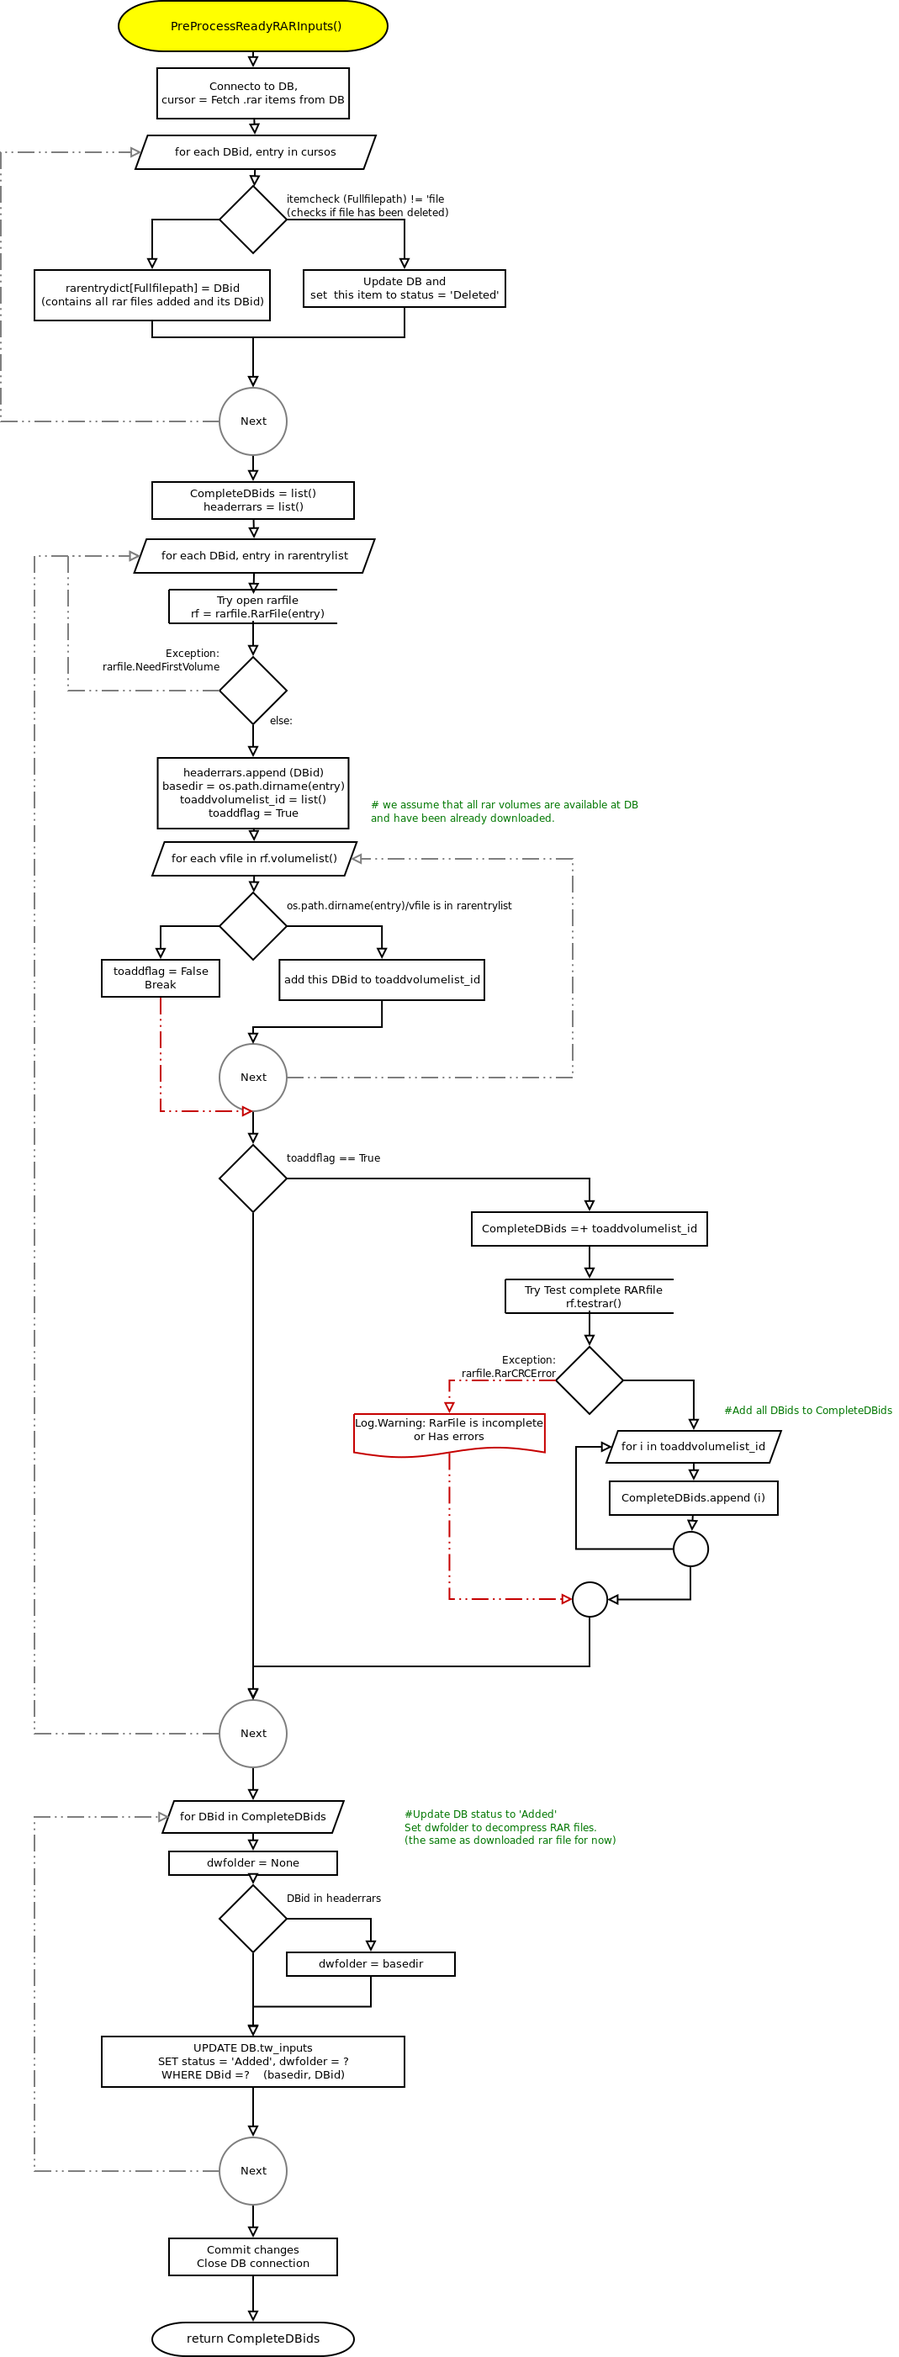
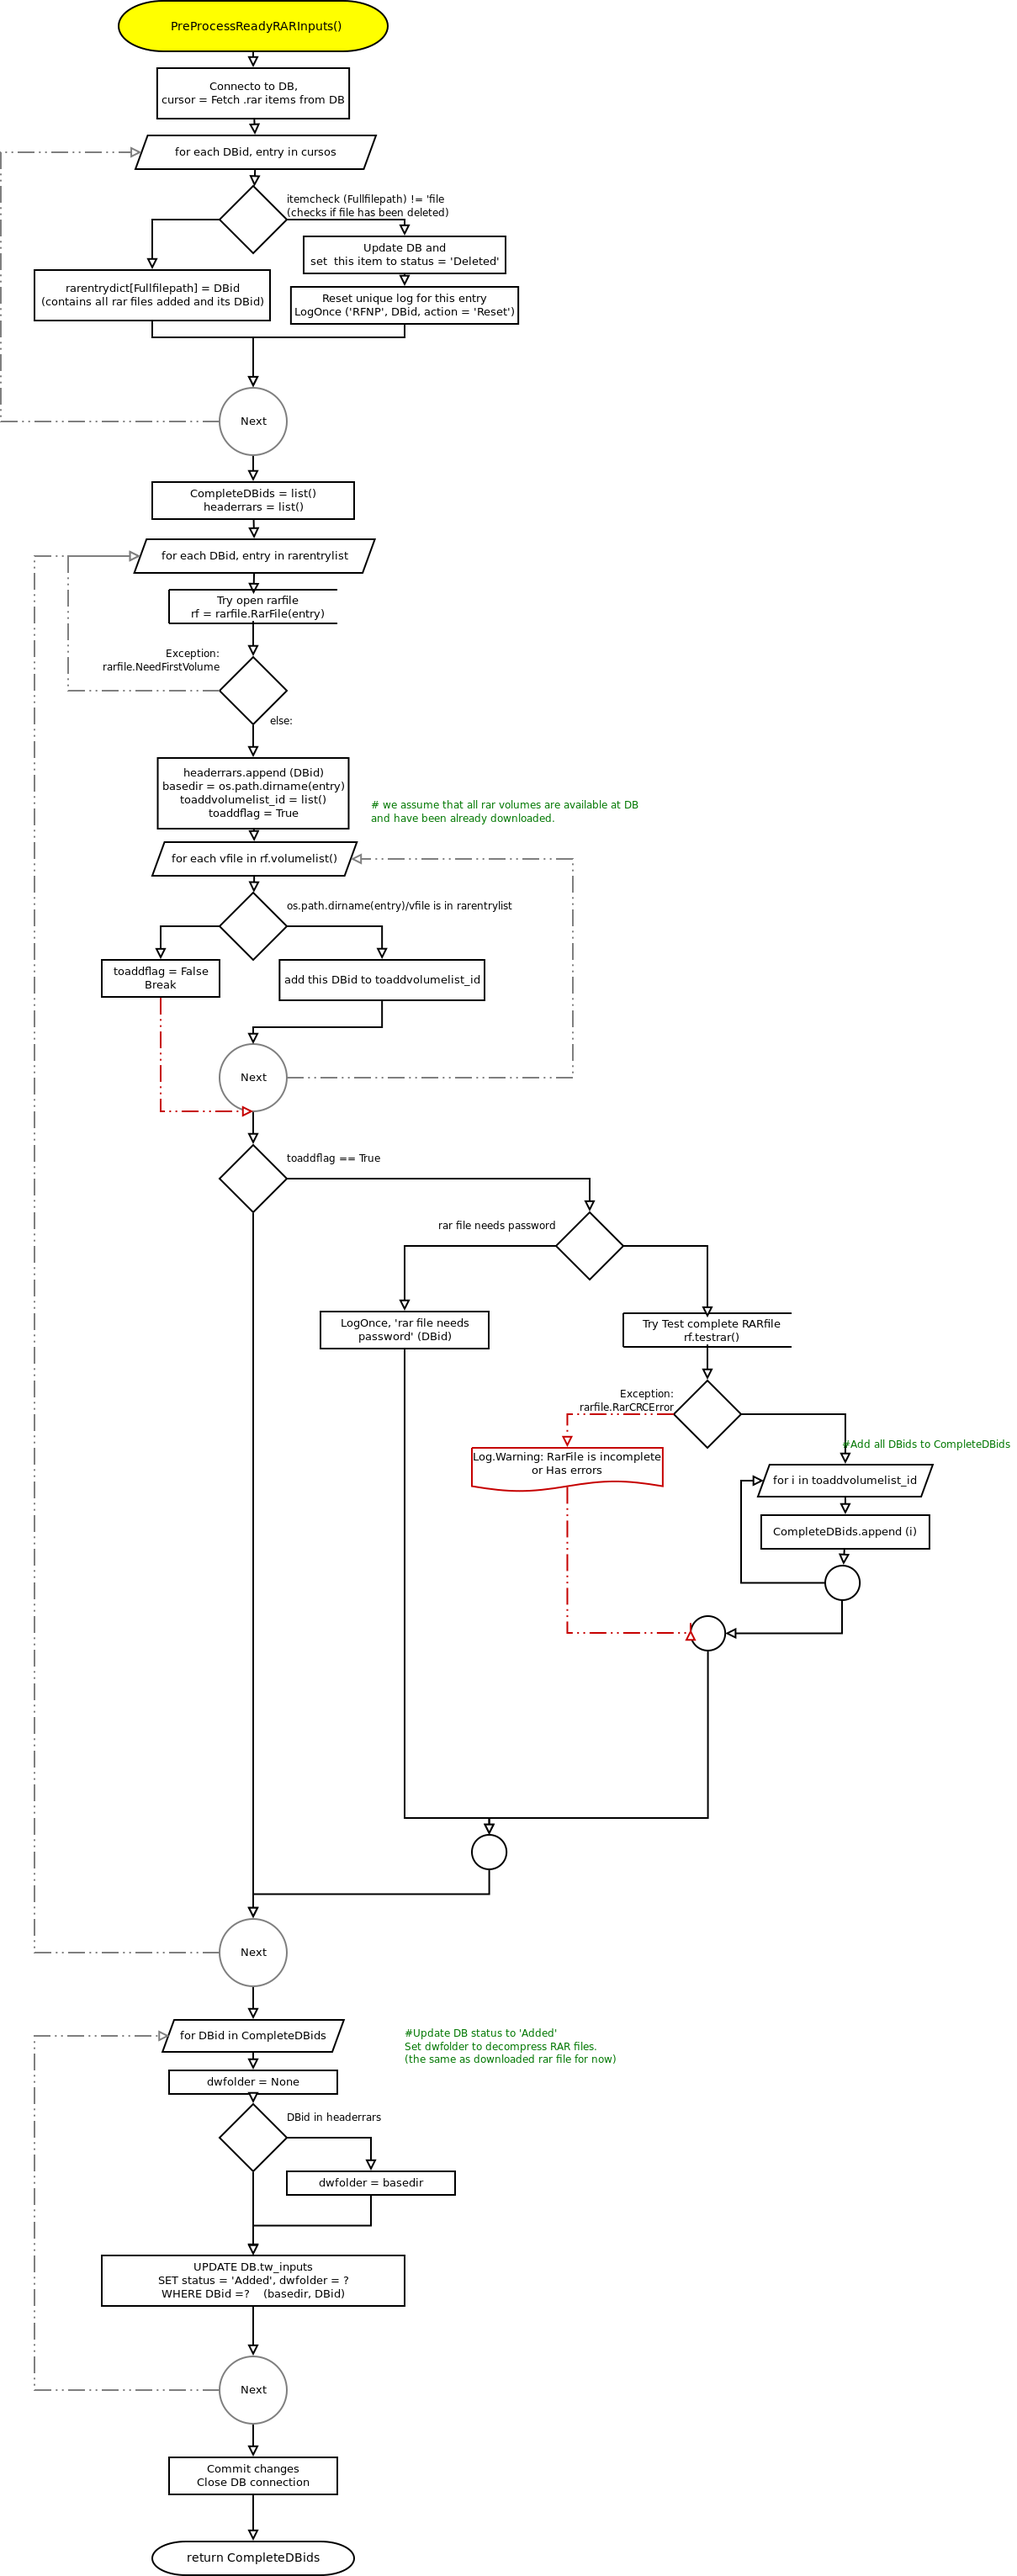
cleaning code, logoutputts, updated diagrams

diff --git a/Gideon.py b/Gideon.py
@@ -222,7 +222,6 @@ def folderinuse (folder):
 					tmpset.add (entry)
 					if fileinuse (entry):
 						return True
-		print (loop, contents1, tmpset, sep="\n")
 		if contents1 == None:
 			contents1 = tmpset.copy()
 			tmpset = set()
@@ -1306,7 +1305,6 @@ def connectTR():
 		launchTR (cmd, 5)
 	tc = transmissionrpc.Client(address=TRmachine, port = '9091' ,user=TRuser, password=TRpassword)
 	logging.debug('A Transmission rpc session has started')
-	print ('\n\n===========================','Started rpc session', sep='\n')
 	return tc
 
 def SendtoTransmission():
@@ -2275,6 +2273,7 @@ def PreProcessReadyRARInputs():
 		if itemcheck (Fullfilepath) != 'file':
 			con.execute ("UPDATE tw_inputs SET status='Deleted' WHERE id = ?", (DBid,))
 			logging.warning ("RAR File at entry (%s) have been removed."%DBid)
+			LogOnce ('RFNP', DBid, action = 'Reset')
 		else:
 			rarentrydict[Fullfilepath] = DBid
 
@@ -2310,6 +2309,10 @@ def PreProcessReadyRARInputs():
 					else:
 						for i in toaddvolumelist_id:
 							CompleteDBids.append (i)
+				else:
+					msg = '(%s) This rar file needs password: %s'%(DBid,entry)
+					LogOnce ('RFNP', DBid, msg = msg, action='Print')
+
 
 	for DBid in CompleteDBids:
 		dwfolder = None
@@ -2394,4 +2397,5 @@ if __name__ == '__main__':
 		MsgService ()
 
 		logging.debug("# Done!, next check at "+ str (datetime.datetime.now()+datetime.timedelta(seconds=s)))
+		print ('\n'+'='*20)
 		time.sleep (s)
